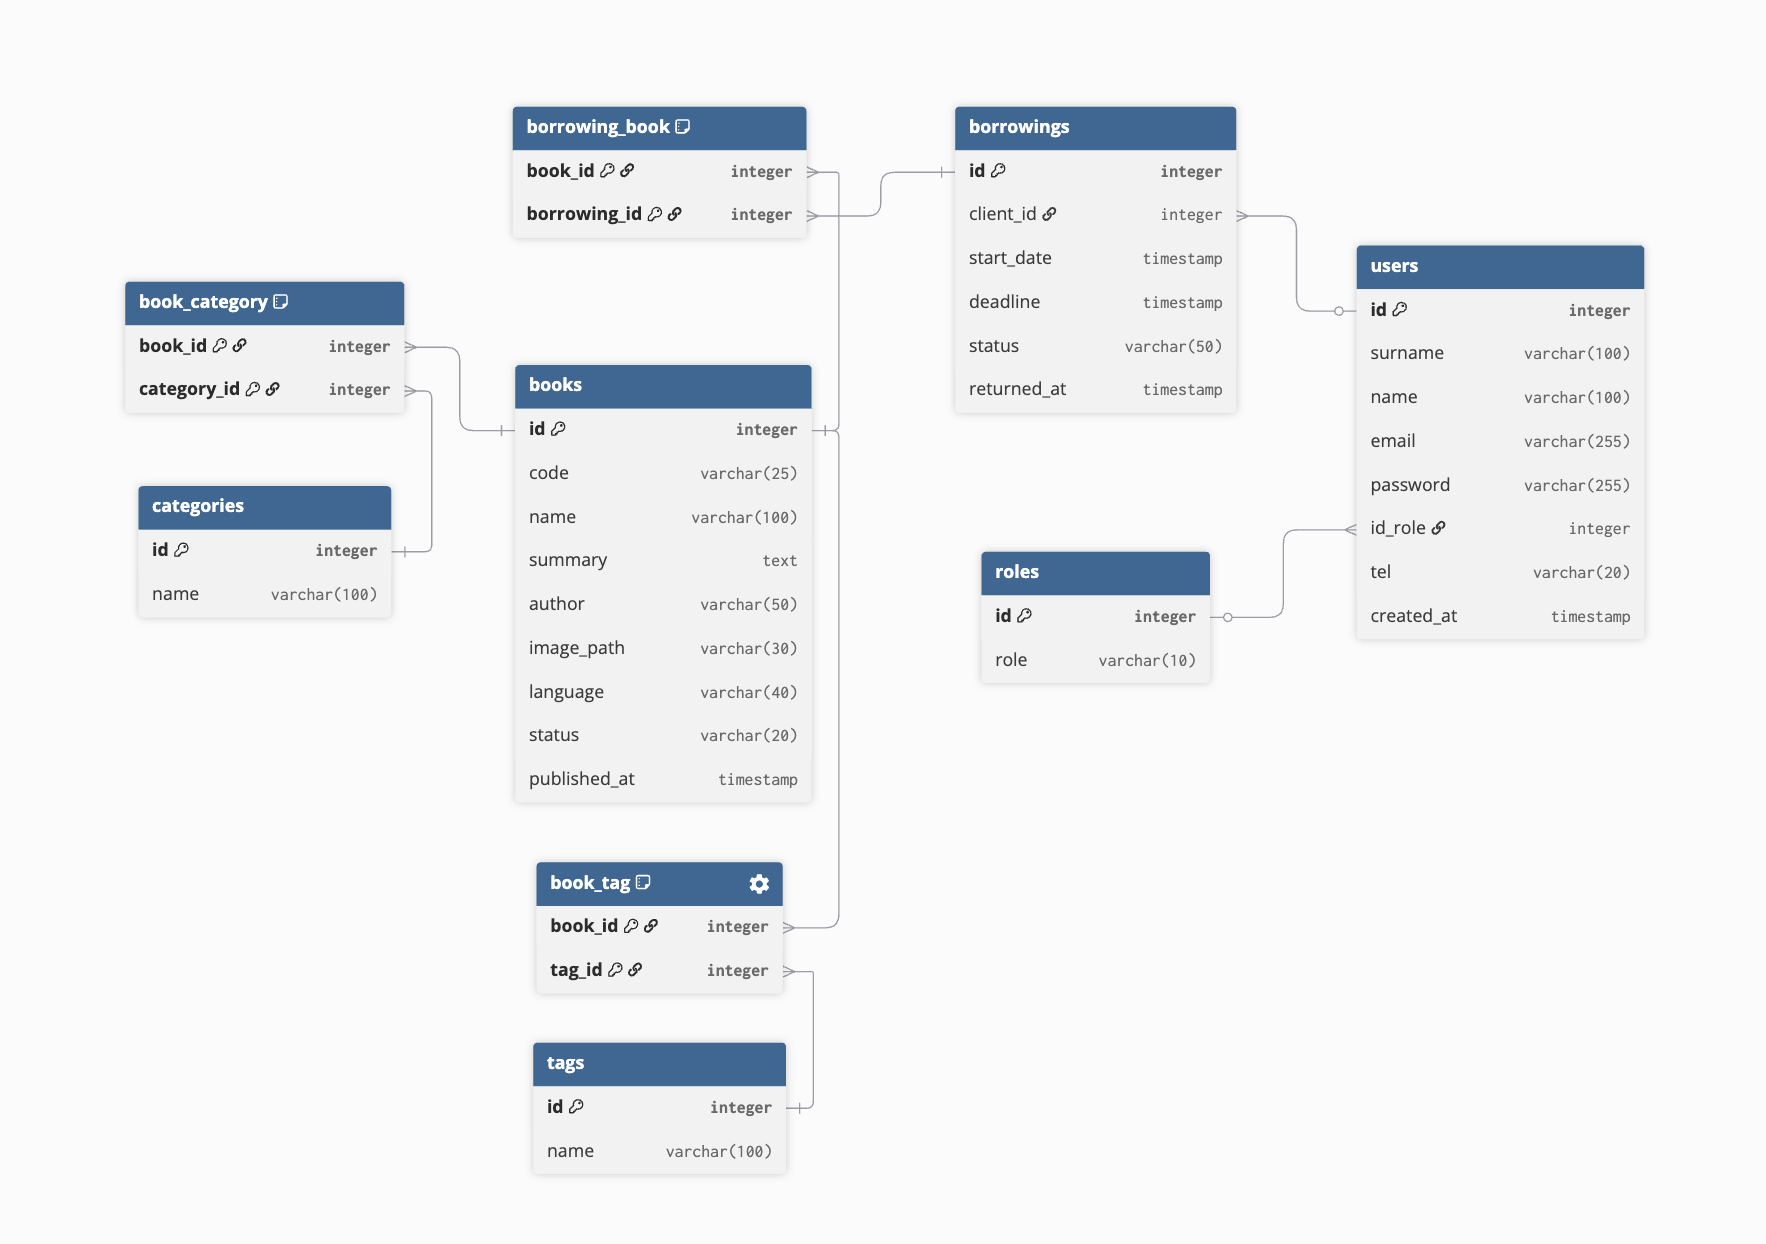
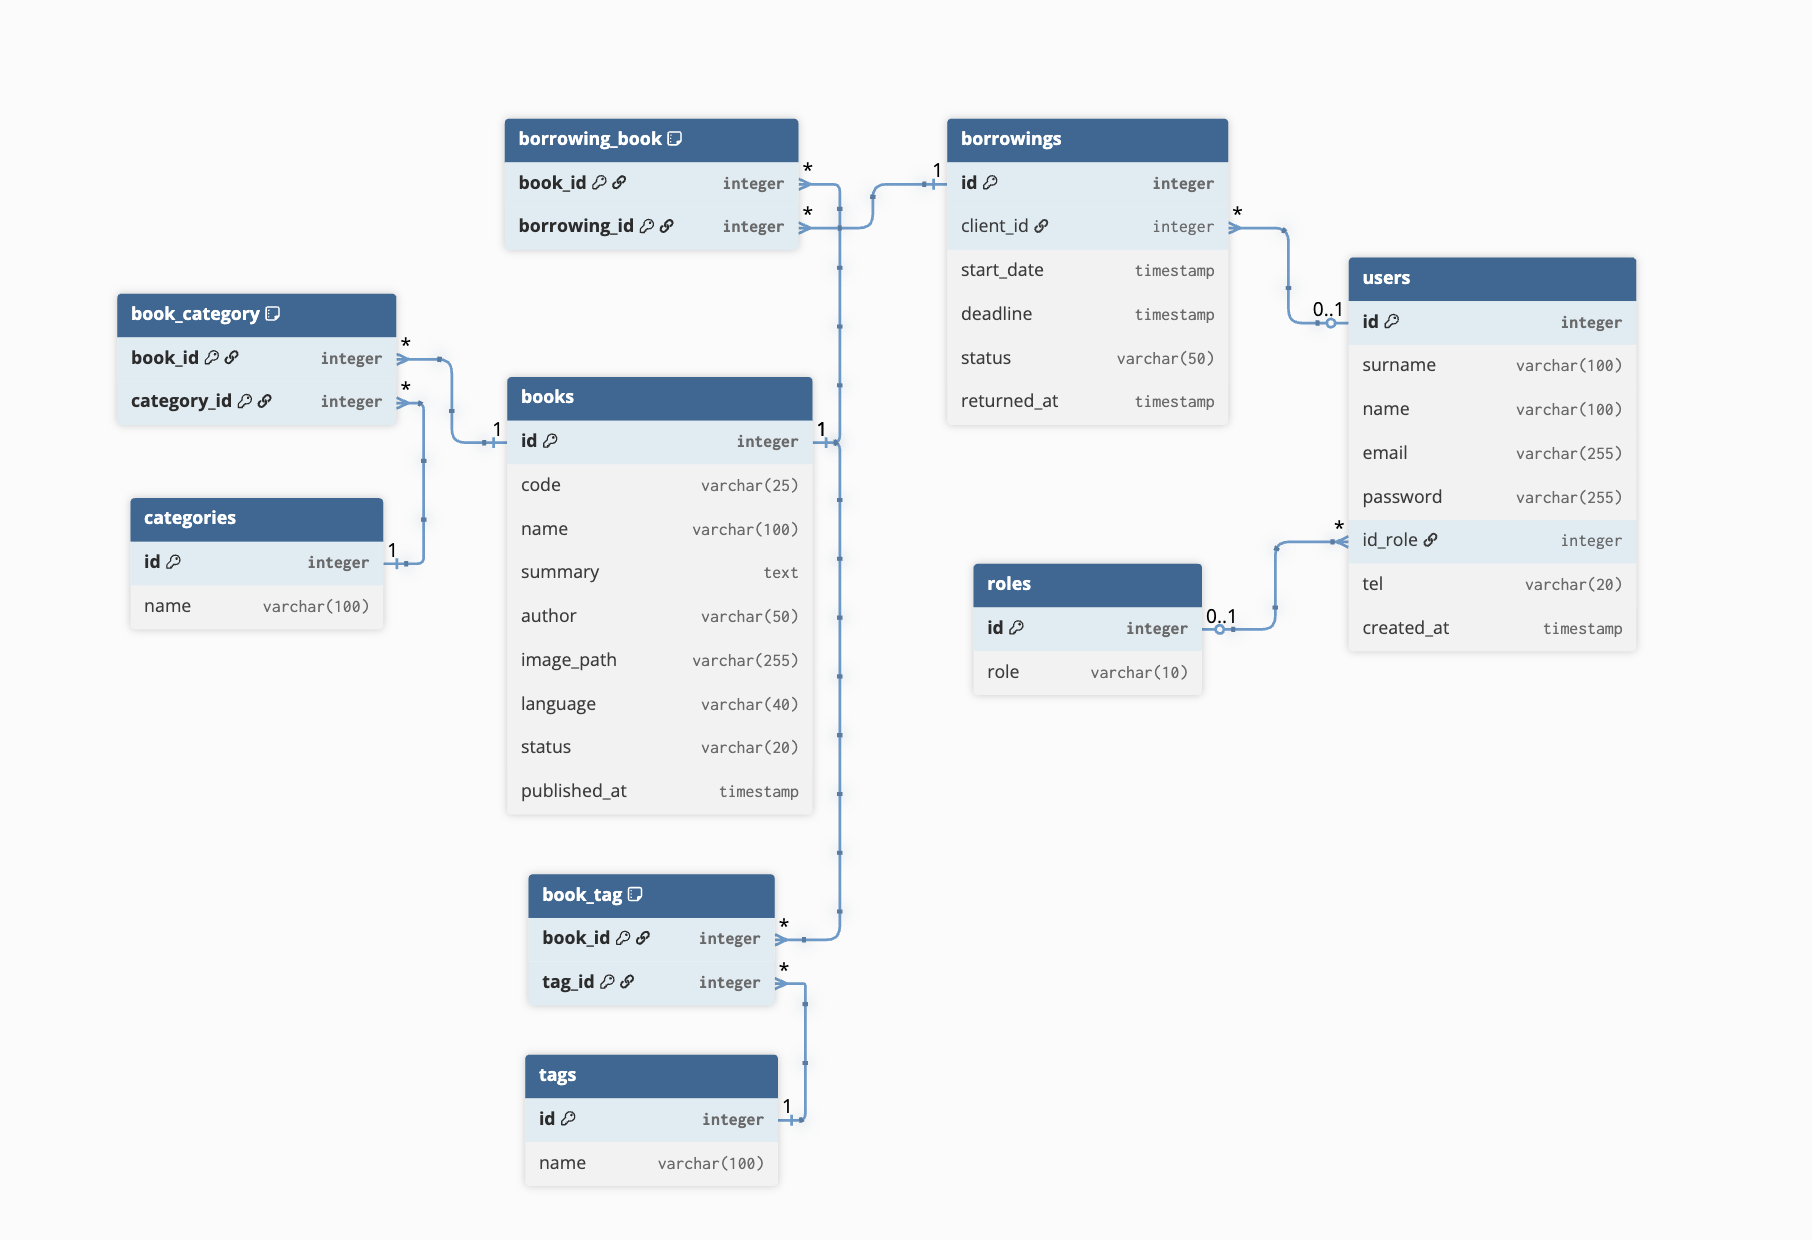
create Book seeding with pivot tables 'book_category' & 'book_tag'

diff --git a/resources/views/home.blade.php b/resources/views/home.blade.php
@@ -25,19 +25,21 @@
             </div>
         </div>
         <div class="row tm-mb-90 tm-gallery">
-            <div class="col-xl-3 col-lg-4 col-md-6 col-sm-6 col-12 mb-5">
-                <figure class="effect-ming tm-video-item">
-                    <img src="{{ asset("css/templatemo/img/img-03.jpg") }}" alt="Image" class="img-fluid">
-                    <figcaption class="d-flex align-items-center justify-content-center">
-                        <h2>Clocks</h2>
-                        <a href="/home/detail">View more</a>
-                    </figcaption>
-                </figure>
-                <div class="d-flex justify-content-between tm-text-gray">
-                    <span class="tm-text-gray-light">18 Oct 2020</span>
-                    <span>9,906 views</span>
+            @foreach($books->all() as $book)
+                <div class="col-xl-3 col-lg-4 col-md-6 col-sm-6 col-12 mb-5">
+                    <figure class="effect-ming tm-video-item">
+                        <img src="{{ asset("css/templatemo/img/img-03.jpg") }}" alt="Image" class="img-fluid">
+                        <figcaption class="d-flex align-items-center justify-content-center">
+                            <h2>{{ $book['name'] }}</h2>
+                            <a href="/home/detail">View more</a>
+                        </figcaption>
+                    </figure>
+                    <div class="d-flex justify-content-between tm-text-gray">
+                        <span class="tm-text-gray-light">{{ $book['name'] }}</span>
+                        <span>{{ $book['published_at'] }}</span>
+                    </div>
                 </div>
-            </div>
+            @endforeach
             <div class="col-xl-3 col-lg-4 col-md-6 col-sm-6 col-12 mb-5">
                 <figure class="effect-ming tm-video-item">
                     <img src="{{ asset("css/templatemo/img/img-04.jpg") }}" alt="Image" class="img-fluid">

diff --git a/database/seeders/TagSeeder.php b/database/seeders/TagSeeder.php
@@ -1,0 +1,75 @@
+<?php
+
+namespace Database\Seeders;
+
+use App\Models\Tag;
+use Illuminate\Database\Console\Seeds\WithoutModelEvents;
+use Illuminate\Database\Seeder;
+
+class TagSeeder extends Seeder
+{
+    /**
+     * Run the database seeds.
+     */
+    public function run(): void
+    {
+        $tags = [
+            "AVENTURE",
+            "HUMOUR",
+            "TRAGEDIE",
+            "CYBERPUNK",
+            "STEAMPUNK",
+            "MAGIE",
+            "SORCELLERIE",
+            "DYSTOPIE",
+            "HEROIC FANTASY",
+            "MYTHOLOGIE",
+            "POST-APOCALYPTIQUE",
+            "DRAME",
+            "SAGA",
+            "NOUVELLE",
+            "ONE-SHOT",
+            "ENQUETE",
+            "GUERRE",
+            "SPACE OPERA",
+            "SUPER-HEROS",
+            "FOLKLORE",
+            "ANALYSE",
+            "THESE",
+            "BAGUETTE MAGIQUE",
+            "ARME",
+            "COMBAT",
+            "ARTS MARTIAUX",
+            "DECOUVERTE",
+            "INVENTION",
+            "PLANETE",
+            "MONSTRE",
+            "SURNATUREL",
+            "EXTRATERRESTRE",
+            "ANIMAL",
+            "HUMAIN",
+            "CERVEAU",
+            "OCEAN",
+            "BATEAU",
+            "AUTOMOBILE",
+            "MECANIQUE",
+            "POLITIQUE",
+            "TELEVISION",
+            "RECORD",
+            "ANIMATION",
+            "ACTIVITE",
+            "EXPERIENCE",
+            "TEMOIGNAGE",
+            "AUTOBIOGRAPHIE",
+            "FICTION",
+            "MUSIQUE",
+            "ARTISTE"
+        ];
+
+        foreach ($tags as $tag) {
+            Tag::create([
+                'name' => $tag,
+            ]);
+        }
+    }
+}

diff --git a/database/seeders/CategorySeeder.php b/database/seeders/CategorySeeder.php
@@ -1,0 +1,64 @@
+<?php
+
+namespace Database\Seeders;
+
+use App\Models\Category;
+use Illuminate\Database\Seeder;
+
+class CategorySeeder extends Seeder
+{
+    /**
+     * Run the database seeds.
+     */
+    public function run(): void
+    {
+        $categories = [
+            'SCIENCE FICTION',
+            "FANTAISIE",
+            "FANTASTIQUE",
+            "ROMANCE",
+            "LITTERATURE GENERALE",
+            "BIOGRAPHIE",
+            "ESSAI",
+            "SCIENCE",
+            "TECHNOLOGIE",
+            "BIOLOGIE",
+            "MEDECINE",
+            "GEOSCIENCE",
+            "ECONOMIE",
+            "PSYCHOLOGIE",
+            "PHILOSOPHIE",
+            "MATHEMATIQUE",
+            "INFORMATIQUE",
+            "CHIMIE",
+            "PHYSIQUE",
+            "ASTRONOMIE",
+            "BANDE DESSINEE",
+            "JEUNESSE",
+            "PREMIERE LECTURE",
+            "EVEIL",
+            "BEAUX LIVRES",
+            "ART",
+            "GUIDE DE VOYAGE",
+            "GUIDE PRATIQUE",
+            "HORREUR",
+            "POLICIER",
+            "POLAR",
+            "THRILLER",
+            "DOCUMENTAIRE",
+            "SPORT",
+            "SOCIETE",
+            "HISTOIRE",
+            "GEOGRAPHIE",
+            "MANGA",
+            "SCOLAIRE",
+            "LANGUE",
+            ];
+
+        foreach ($categories as $category) {
+            Category::create([
+                'name' => $category,
+            ]);
+        }
+    }
+}

diff --git a/database/seeders/DatabaseSeeder.php b/database/seeders/DatabaseSeeder.php
@@ -2,9 +2,12 @@
 
 namespace Database\Seeders;
 
-use App\Models\User;
+use App\Models\Book;
+use App\Models\Category;
+use App\Models\Tag;
 use Illuminate\Database\Console\Seeds\WithoutModelEvents;
 use Illuminate\Database\Seeder;
+use Random\RandomException;
 
 class DatabaseSeeder extends Seeder
 {
@@ -12,14 +15,26 @@ class DatabaseSeeder extends Seeder
 
     /**
      * Seed the application's database.
+     * @throws RandomException
      */
     public function run(): void
     {
+
+        $this->call([
+            CategorySeeder::class,
+            TagSeeder::class,
+        ],);
         // User::factory(10)->create();
 
-        User::factory()->create([
-            'name' => 'Test User',
-            'email' => 'test@example.com',
-        ]);
+        $books = Book::factory(60)->create();
+        foreach ($books as $book) {
+            $nbCategories = random_int(1, 3);
+            $categoriesId = Category::all()->random($nbCategories)->pluck('id');
+            $book->categories()->attach($categoriesId);
+
+            $nbTags = random_int(1, 5);
+            $tagsId = Tag::all()->random($nbTags)->pluck('id');
+            $book->tags()->attach($tagsId);
+        }
     }
 }

diff --git a/database/factories/BookFactory.php b/database/factories/BookFactory.php
@@ -1,0 +1,33 @@
+<?php
+
+namespace Database\Factories;
+
+use Illuminate\Database\Eloquent\Factories\Factory;
+
+/**
+ * @extends \Illuminate\Database\Eloquent\Factories\Factory<\App\Models\Book>
+ */
+class BookFactory extends Factory
+{
+    /**
+     * Define the model's default state.
+     *
+     * @return array<string, mixed>
+     */
+    public function definition(): array
+    {
+        $dir = storage_path("app/public/books");
+        $files = scandir($dir);
+
+        return [
+            'code' => 'BOOK' .  str_pad(fake()->unique()->randomNumber(5),  6, "0", STR_PAD_LEFT),
+            'name' => fake()->words(rand(1, 3), true),
+            'summary' => fake('fr_FR')->text(500),
+            'author' => fake('fr_FR')->name(),
+            'image_path' => 'books/' . $files[rand(0, count($files) - 1)],
+            'language' => 'FR',
+            'status' => "DISPONIBLE",
+            'published_at' => now(),
+        ];
+    }
+}

diff --git a/app/Models/Book.php b/app/Models/Book.php
@@ -2,10 +2,21 @@
 
 namespace App\Models;
 
+use Illuminate\Database\Eloquent\Factories\HasFactory;
 use Illuminate\Database\Eloquent\Model;
+use Illuminate\Database\Eloquent\Relations\BelongsToMany;
 
 class Book extends Model
 {
+    use HasFactory;
+    public function categories() : BelongsToMany {
+        return $this->belongsToMany(Category::class);
+    }
+
+    public function tags() : BelongsToMany {
+        return $this->belongsToMany(Tag::class);
+    }
+
     protected $fillable = [
         'status',
         'image_path',

diff --git a/routes/web.php b/routes/web.php
@@ -7,9 +7,10 @@ Route::get('/', function () {
 });
 
 Route::prefix("/home")->name('home.')->group(function () {
-    Route::get('/', function () {
-        return view('home');
-    })->name('index');
+    Route::get('/', [\App\Http\Controllers\HomeController::class, 'showBook']);
+//    Route::get('/', function () {
+//        return view('home');
+//    })->name('index');
 
     Route::get('/detail', function () {
         return view('photo-detail');

diff --git a/database/migrations/2026_03_09_213520_create_books_table.php b/database/migrations/2026_03_09_213520_create_books_table.php
@@ -17,7 +17,7 @@ return new class extends Migration
             $table->string('name', 100);
             $table->text('summary');
             $table->string('author', 50);
-            $table->string('image_path', 30);
+            $table->string('image_path', 255);
             $table->string('language', 40);
             $table->string('status', 20);
             $table->timestamp('published_at');

diff --git a/app/Models/Category.php b/app/Models/Category.php
@@ -3,8 +3,15 @@
 namespace App\Models;
 
 use Illuminate\Database\Eloquent\Model;
+use Illuminate\Database\Eloquent\Relations\BelongsToMany;
 
 class Category extends Model
 {
-    //
+    public function books() : BelongsToMany {
+        return $this->belongsToMany(Book::class);
+    }
+
+    protected $fillable = [
+        'name'
+    ];
 }

diff --git a/app/Models/Tag.php b/app/Models/Tag.php
@@ -3,8 +3,15 @@
 namespace App\Models;
 
 use Illuminate\Database\Eloquent\Model;
+use Illuminate\Database\Eloquent\Relations\BelongsToMany;
 
 class Tag extends Model
 {
-    //
+    public function books() : BelongsToMany {
+        return $this->belongsToMany(Book::class);
+    }
+
+    protected $fillable = [
+        'name',
+    ];
 }

diff --git a/app/Http/Controllers/HomeController.php b/app/Http/Controllers/HomeController.php
@@ -1,0 +1,17 @@
+<?php
+
+namespace App\Http\Controllers;
+
+use Illuminate\Http\Request;
+use App\Models\Book;
+
+class HomeController extends Controller
+{
+    public function showBook() {
+
+        $books = Book::all();
+//        dd($books->get(1)['name']);
+
+        return view('home', ['books' => $books]);
+    }
+}
